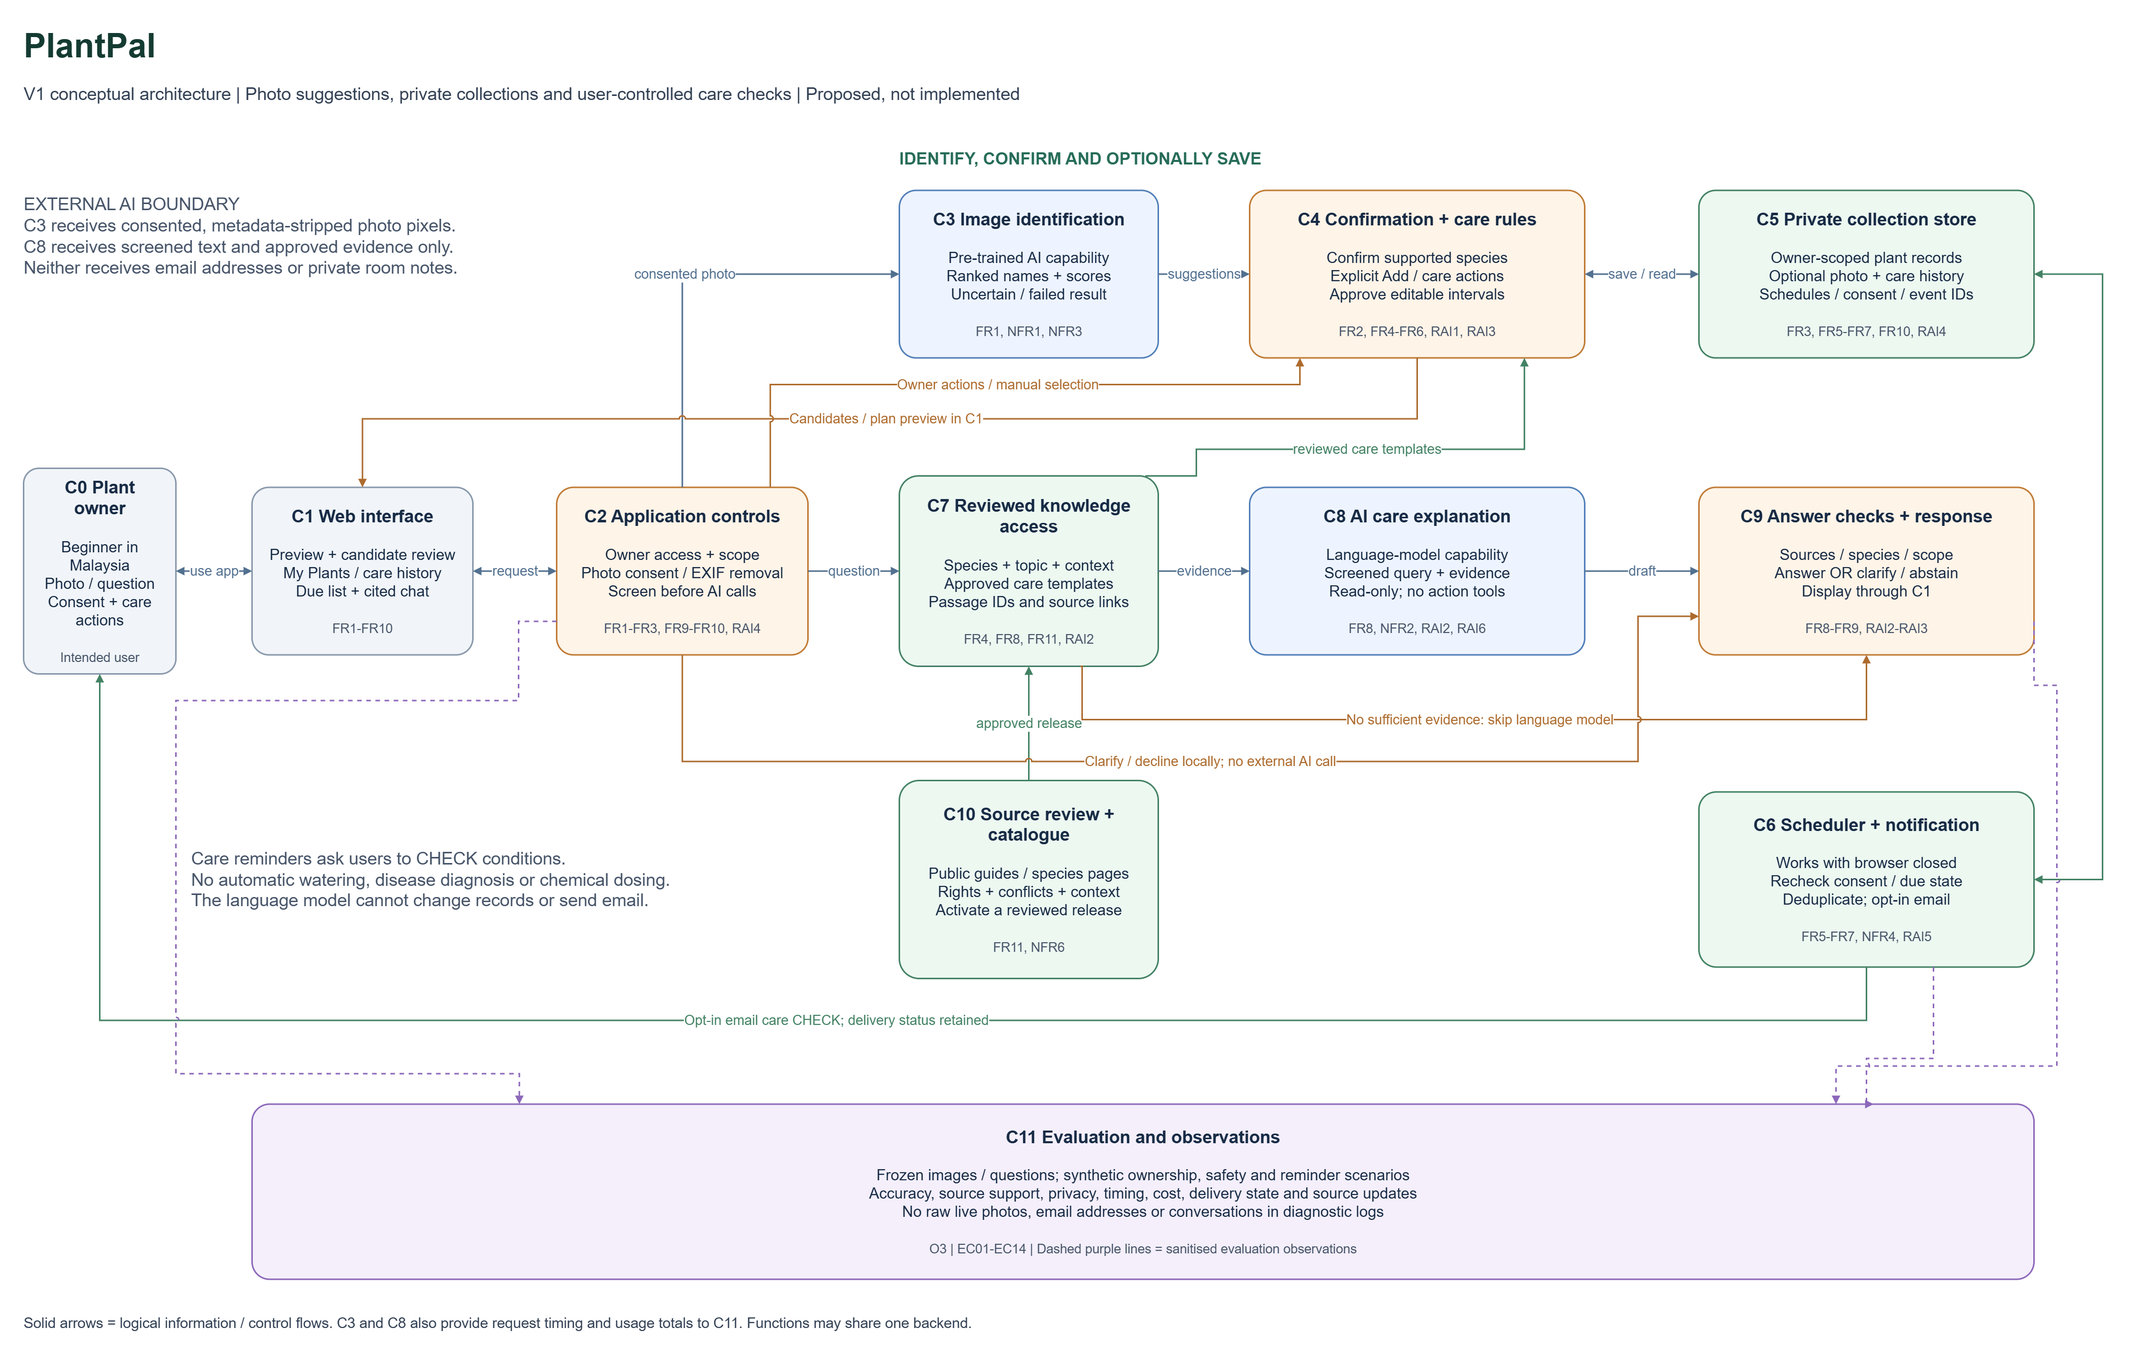
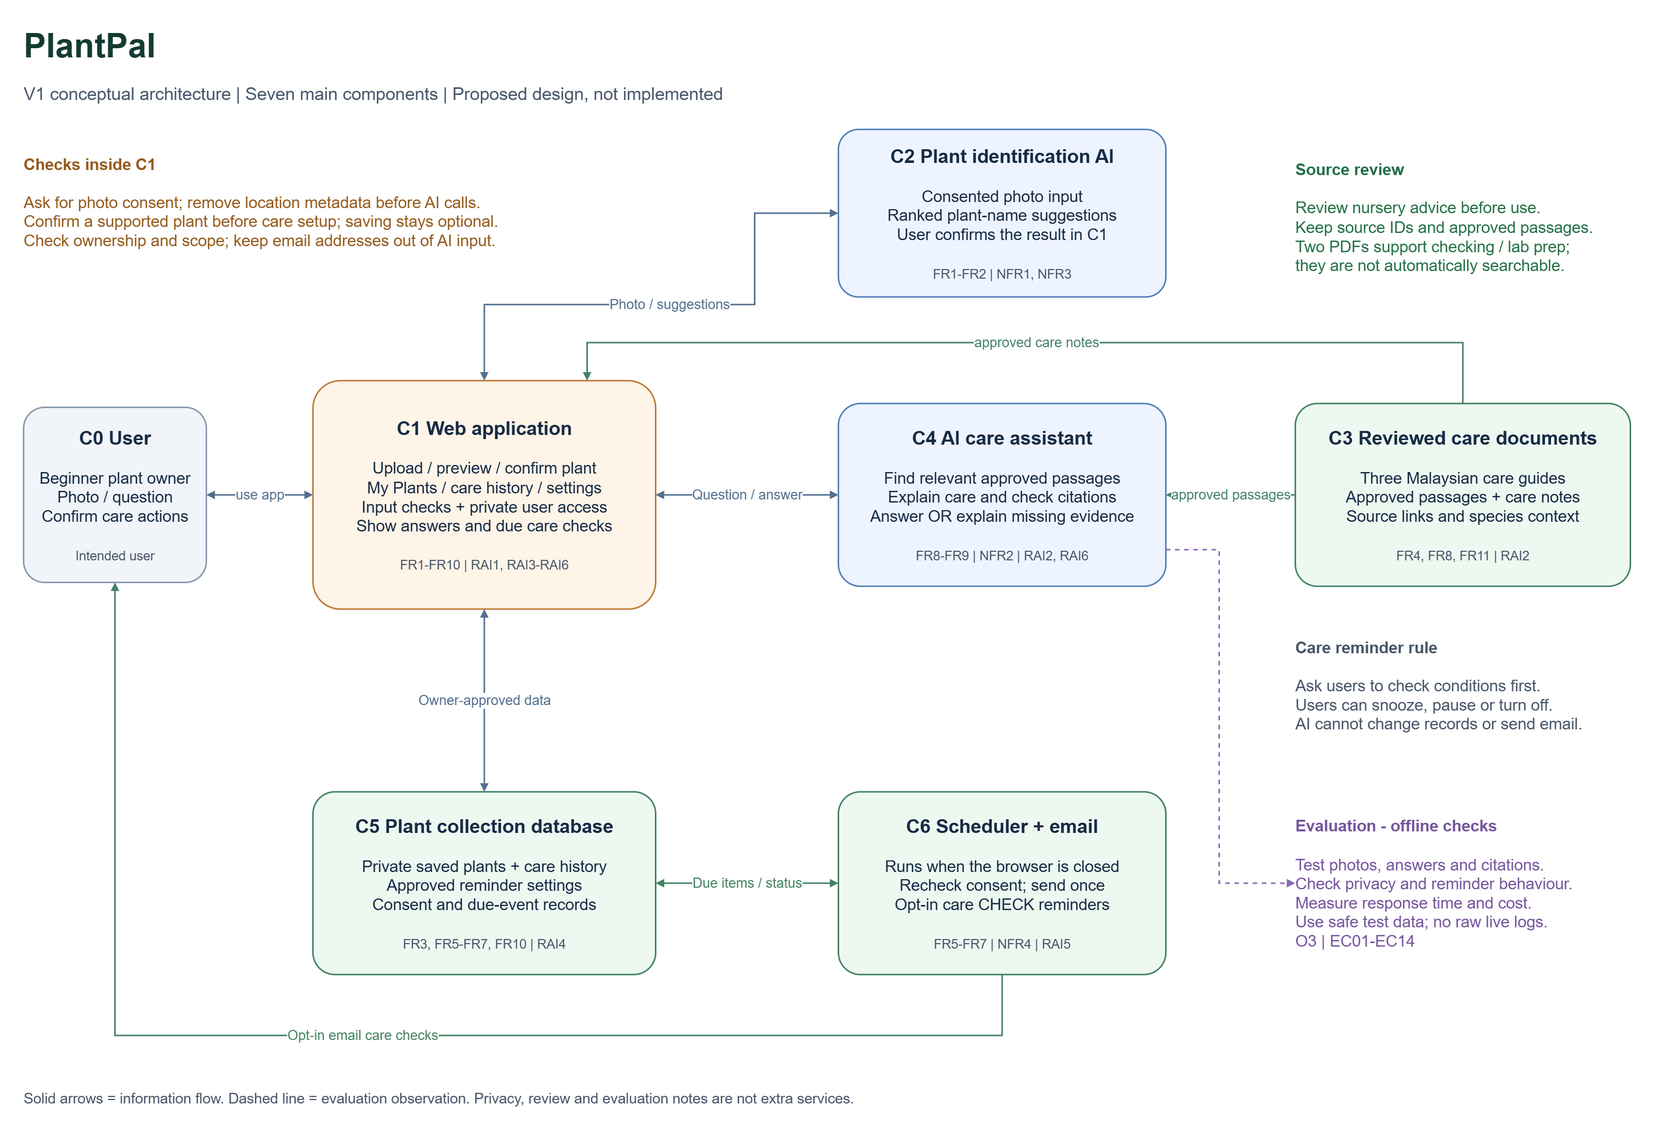
Simplify PlantPal V1 architecture to seven main components

diff --git a/docs/week2_architecture_decisions.md b/docs/week2_architecture_decisions.md
@@ -1,80 +1,85 @@
 # Week 2 V1 Architecture Decisions - PlantPal
 
-Version: 1.0 | Updated: 28 October 2026 | Status: conceptual design, not an implemented application
+Version: 1.1 | Updated: 28 October 2026 | Status: conceptual design; application not implemented
 
 [Architecture PNG](week2_architecture_v1.png) | [Editable Draw.io source](week2_architecture_v1.drawio) | [Requirements](week2_requirements.md) | [Evaluation criteria](week2_evaluation_criteria.md)
 
-## Starting architecture and justified additions
+## Starting point
 
-The starting interaction is User -> Application -> AI capability -> Response. It does not by itself support tentative identity confirmation, private collections, reviewed evidence or notifications while the browser is closed. The components below are added for those requirements. Labels describe functions; no database, model, UI framework or deployment vendor is selected at V1.
+Start with User -> Web application -> AI capability -> Response. PlantPal also needs reviewed care information, saved plant records and reminders that work when the browser is closed. The V1 diagram therefore has seven main components. Privacy checks, source review and evaluation appear as notes beside the relevant components.
 
-| Component | Responsibility | Justifying requirements |
+The boxes show responsibilities. The web application includes the interface and backend rules; it can start as one application. Specific models, databases, frameworks and hosting services will be chosen later.
+
+## Seven main components
+
+| Component | What it does | Requirements supported |
 |---|---|---|
-| C0 User | Photograph/select a plant, confirm identity, choose save and opt into care checks. | Intended user, FR1-FR7 |
-| C1 Application interface | Camera/upload preview, candidates and confirmation, My Plants, history, due list and source-linked chat. | FR1-FR10 |
-| C2 Application controls | Authenticate owners for saved data; validate inputs, photo consent and metadata; check scope and route requests. | FR1-FR3, FR9, FR10, RAI1, RAI4 |
-| C3 Image identification capability | Receive a consented sanitised photo and return ranked candidate names/scores; expose failures. | FR1, NFR1, NFR3 |
-| C4 Confirmation and care-plan rules | Enforce supported identity and explicit Add; validate approved editable intervals, consent and care event transitions. | FR2, FR4-FR6, RAI1, RAI3 |
-| C5 Private collection store | Owner-scoped plant/profile/history/optional-photo data, email destination reference, schedules and pending event state. | FR3, FR5-FR7, FR10, RAI4 |
-| C6 Scheduler and notification gateway | Run without an open browser; recheck latest consent/due state, deduplicate, dispatch and record delivery status. | FR5-FR7, NFR4, RAI5 |
-| C7 Reviewed knowledge access | Serve relevant passages and reviewed care templates with species/context/provenance metadata. | FR4, FR8, FR11, NFR2, NFR6, RAI2 |
-| C8 Language-model explanation | Use a screened question, structured care context and approved evidence to draft a cited explanation; no write/send tools. | FR8, RAI2, RAI6 |
-| C9 Answer validation and response | Check source IDs, species/context, scope and format; return answer, clarification or abstention through C1. | FR8, FR9, RAI2, RAI3 |
-| C10 Source review and catalogue | Maintainer reviews public documents, permissions, conflicts and source release; activates passages/templates. | FR11, NFR6 |
-| C11 Evaluation and operational observations | Run frozen cases; observe sanitised case outcomes, duration, usage and dispatch status. | O3, NFR1-NFR6, RAI1-RAI6 |
+| C0 User | Takes a photo or asks a question, confirms the plant name, chooses whether to save it and approves reminders. | Intended user; FR1-FR7 |
+| C1 Web application | Shows upload, confirmation, My Plants, history, reminder settings, due tasks and chat. Checks consent, photo metadata, ownership and scope before requests. Saves care actions only after the owner's choice. | FR1-FR10, RAI1, RAI3-RAI6 |
+| C2 Plant identification AI | Receives a consented photo with metadata removed and returns possible plant names and scores, or a clear failure state. | FR1, FR2, NFR1, NFR3, RAI1 |
+| C3 Reviewed care documents | Provides approved passages and care notes with species details and source links. Source review and updates are maintainer tasks attached to this component. | FR4, FR8, FR11, NFR2, NFR6, RAI2 |
+| C4 AI care assistant | Finds relevant approved passages, explains them, checks citations and returns an answer or an explanation of missing information through C1. It cannot change records or send email. | FR8, FR9, NFR2, NFR3, RAI2, RAI3, RAI6 |
+| C5 Plant collection database | Stores private plant records, optional saved photos, care history, approved reminder settings, consent and due-event status. C1 checks ownership for user access. | FR3, FR5-FR7, FR10, RAI4 |
+| C6 Scheduler and email notifications | Runs independently of the open browser. Reads due events, checks current consent and record status, prevents duplicates and sends opted-in care-check emails. | FR5-FR7, NFR4, RAI5 |
 
-### Major information flows
+## How information moves
 
-1. **Identification:** C0 -> C1 -> C2 -> C3 -> C4 -> C1. C2 validates type/size, previews consent and removes metadata before any remote identification call. C4 presents candidates for explicit confirmation; failure/unsupported results use manual selection or abstention.
-2. **Collection and care setup:** C1 -> C2 -> C4 <-> C5. C4 reads reviewed templates from C7, but saves only on explicit Add and approved scheduling choices. Identify-only photos expire even if the user never saves.
-3. **Care reminders:** C5 <-> C6 -> opted-in user. C6 reads the latest record immediately before dispatch and uses a stable due-event ID to prevent duplicate sending. An app due list reads the same state through C2/C4. Browser timers alone are insufficient for closed-app delivery.
-4. **Care Q&A:** C1 -> C2 -> C7 -> C8 -> C9 -> C1. Only a screened question and permitted structured context go to retrieval/AI services. No sufficient evidence follows C7 -> C9, bypassing generation. Missing context or prohibited input follows C2 -> C9 directly.
-5. **Source review:** Public documents -> C10 -> C7. C10 activates a reviewed release; it does not ingest arbitrary live pages from the user's question.
-6. **Evaluation:** C2, C3, C6 and C9 supply sanitised observations to C11. Test photos and synthetic cases live in an access-controlled evaluation workspace; no raw live images, messages or email addresses enter monitoring logs.
+1. **Identify:** C0 -> C1 -> C2 -> C1. The user previews the photo and agrees to identification. C1 checks the image and removes metadata before sending it. C1 shows the returned suggestions and requires confirmation of a supported plant. Failure or uncertainty allows manual selection.
+2. **Save and track:** C1 <-> C5. The user separately chooses Add to My Plants. C1 checks ownership and validates the care settings before saving. Watered, still damp, skipped and fertilised events follow the transitions in the requirements.
+3. **Care guidance:** C3 -> C1 supplies approved care notes. The user approves editable check intervals; the app does not infer moisture or generate a chemical dose from a photo.
+4. **Ask a question:** C0 -> C1 -> C4 -> C1 -> C0, with C3 -> C4 supplying approved evidence. C1 screens input before any external AI call. If the approved passages do not support an answer, C4 returns an explanation of the gap without generating unsupported advice. C1 can ask for missing details or decline a request before calling C4.
+5. **Remind:** C5 <-> C6 -> C0. Before sending, C6 checks the latest consent, due state, paused/deleted status and unique event ID. The app's due list reads the same records through C1. Delivery failure does not record a care action as completed.
 
-The diagram shows logical responsibilities, not a microservices deployment. C2/C4/C7/C9 can initially be modules in one backend. C5 is the only private persistent-data boundary; C3/C8 are external AI boundaries. The notification transport receives only the opted-in destination and minimal reminder text. It is never callable by C8.
+## Controls and evaluation notes
 
-## Care sources in this design
+- **Privacy and confirmation inside C1:** Obtain photo consent, remove metadata, confirm a supported species and keep saving optional. Only owners can access their saved records. Email addresses and private room notes stay out of AI input. Apply the deletion and retention targets in RAI4.
+- **Source review beside C3:** A maintainer checks rights, species, growing conditions and conflicting advice before approving a source release. Only approved passages become available to C4. This is a review task, not a separate service.
+- **Care checks beside C6:** Reminders ask users to check conditions first. Fertilising reminders start off. Users can snooze, pause or disable reminders; changes take effect before dispatch. The model has no write or email tools.
+- **Offline evaluation note:** Test identification, answers, citations, ownership, privacy, reminders, source updates, speed and cost using EC01-EC14. Collect safe test outcomes and aggregate timing/usage data from the relevant components. Keep raw live images, email addresses and conversations out of diagnostic logs.
 
-C10 reviews the three main Malaysian care guides: [money plant](https://wengthye.com/careguide/money-plant), [snake plant](https://wengthye.com/careguide/snake-plant) and [spider plant](https://wengthye.com/careguide/spider-plant). C7 makes only their approved passages available to C8. The [main source register](../data/sources.csv) records these three documents; the [supporting-reference register](../data/supporting_references.csv) records the two university PDFs used for independent checking and lab preparation.
+Grouping these responsibilities keeps the diagram small while retaining the controls in the requirements. It does not require a separate deployment for each box.
 
-Changing the source list does not require another component. If the approved guides cannot answer a question, including a repotting question, the existing C7 -> C9 route returns an explanation of the information gap. The language model does not fill the gap with unsupported advice.
+## Care sources
+
+The three main care guides are [money plant](https://wengthye.com/careguide/money-plant), [snake plant](https://wengthye.com/careguide/snake-plant) and [spider plant](https://wengthye.com/careguide/spider-plant), published by 54 Weng Thye Nursery in Selangor. They are recorded in [the main source register](../data/sources.csv).
+
+The two university PDFs in [the supporting-reference register](../data/supporting_references.csv) remain references for independent checking and lab preparation. They are not automatically part of C3's searchable collection. If the approved guides cannot answer a question, including a repotting question, C4 explains the gap. The AI and keyword-search baseline use the same approved source release.
 
 ## Architecture decisions and trade-offs
 
 | Decision | Requirement / constraint | Alternatives considered | Selected option | Trade-off accepted |
 |---|---|---|---|---|
-| ADR1 - Provisional identification with explicit confirmation | FR1, FR2, RAI1; limited labelled data and semester time | Manual selector only; train a classifier; external pre-trained identification capability | Existing identification capability plus manual fallback and supported-species confirmation | Avoids collecting a training dataset, but adds provider dependency, latency, consent and error-handling work. User confirmation can still be wrong. |
-| ADR2 - Reviewed evidence and bounded care coverage | FR8, FR11, NFR2, RAI2 | Base-model answers; static care cards only; unrestricted web search; reviewed knowledge access | Three-species reviewed corpus with retrieval and cited explanations | More curation and possible abstention, in exchange for traceable evidence and manageable tests. This does not guarantee truth automatically. |
-| ADR3 - Deterministic checks and server-side reminders | FR5-FR7, NFR4, RAI3, RAI5 | AI-generated action dates; browser-only timers; user-approved rules plus persistent scheduler | Reviewed wording, user-approved editable intervals, persisted due events, one opt-in email channel | Requires a worker/transport and idempotency/state handling, but works when the app is closed. Exact biological watering need remains unknown; email arrival cannot be guaranteed. |
-| ADR4 - Separate read-only AI from private actions | FR3, FR10, RAI4, RAI6 | Give the assistant write/send tools; public photo storage; owner-scoped records and explicit UI actions | Owner-checked private storage, short-lived uploads and explicit application-controlled changes | Adds access/deletion tests and confirmation steps, but limits prompt-injection effects and accidental exposure. |
+| ADR1 - Use an existing identification service | FR1, FR2, RAI1; individual semester project | Manual selection only; train a new model; use an existing identification service | Existing service with user confirmation and manual fallback | Less model-training work, but provider access, errors, costs and privacy need checking. Confirmation can still be wrong. |
+| ADR2 - Use reviewed care documents | FR8, FR11, NFR2, RAI2 | Model answers alone; static care cards; reviewed documents with AI explanation | Three reviewed Malaysian guides with source-linked answers | Requires review and may leave some questions unanswered, but users can check the supporting evidence. |
+| ADR3 - Use fixed application rules for reminders | FR5-FR7, NFR4, RAI3, RAI5 | AI-chosen action dates; browser-only timers; stored user-approved settings with a scheduler | User-approved editable intervals and a scheduler with opt-in email | Adds scheduling and delivery checks, but supports reminders with the browser closed. A due date is not proof that watering is needed. |
+| ADR4 - Keep AI separate from private actions | FR3, FR10, RAI4, RAI6 | Give AI tools to edit records/send messages; require explicit app actions | C1 handles owner-approved changes; C4 only explains care | Requires explicit user steps and ownership checks, but limits accidental changes and prompt-injection effects. |
 
-Pl@ntNet is a researched identification candidate, not a technology commitment. Its [API documentation](https://docs.plantnet.org/en/reference/api-plantnet/) and [terms](https://my.plantnet.org/terms_of_use) must be checked for supported names, attribution, access and retention before integration. API accounts, keys and notification-provider subscriptions have not been created for this planning submission.
+[Pl@ntNet](https://docs.plantnet.org/en/reference/api-plantnet/) remains a possible identification provider. Its [terms](https://my.plantnet.org/terms_of_use), attribution, costs and privacy practices must be checked before integration. No service account or paid plan is created by this design document.
 
 ## Initial requirements traceability matrix
 
 | Objective | Requirement | Evaluation criterion | Architecture element | Later evidence |
 |---|---|---|---|---|
-| O1 | FR1, FR2, NFR1, RAI1 | EC01, EC02 | C2, C3, C4 | Labelled-image manifest, provider results and confirmation-gate tests. |
-| O2 | FR3, FR6, FR10 | EC03, EC09 | C1, C2, C4, C5 | Synthetic two-owner collection flows and denied cross-owner requests. |
-| O2 | FR5-FR7, NFR4, RAI5 | EC04, EC10 | C4, C5, C6 | Clock-controlled due events, retry logs and opt-out/deletion scenarios. |
-| O1, O2 | FR4, FR8, NFR2, RAI2 | EC05, EC06, EC07 | C7, C8, C9, C10 | Frozen passage references, answer rubric and claim-support annotations. |
-| O2 | FR9, RAI3 | EC08 | C2, C4, C9 | Boundary cases and reviewed watering/fertilising reminder templates. |
-| O2 | FR1, FR10, RAI4 | EC09 | C2, C5 | Consent, EXIF removal, minimised payload and retention/deletion checks. |
-| O3 | NFR3, NFR5 | EC11, EC12 | C2, C3, C8, C11 | Timed request runs, failures, token/request counts and dated price calculation. |
-| O1, O3 | FR11, NFR6 | EC13 | C7, C10, C11 | Versioned source update and eleven regression results. |
-| O2 | RAI6 | EC14 | C2, C8, C9 | Injection cases, read-only permission inspection and absence of unauthorised actions. |
+| O1 | FR1, FR2, NFR1, RAI1 | EC01, EC02 | C1, C2 | Labelled-photo results and confirmation/fallback tests. |
+| O2 | FR3, FR6, FR10 | EC03, EC09 | C1, C5 | Two-owner collection tests, care history and deletion results. |
+| O2 | FR5-FR7, NFR4, RAI5 | EC04, EC10 | C1, C5, C6 | Due-event timing, duplicate prevention, consent and opt-out tests. |
+| O1, O2 | FR4, FR8, NFR2, RAI2 | EC05-EC07 | C1, C3, C4 | Reference questions, answer scores and claim-support checks. |
+| O2 | FR9, RAI3 | EC08 | C1, C4, C6 | Scope tests and reviewed care-check message templates. |
+| O2 | FR1, FR10, RAI4 | EC09 | C1, C5 | Photo-consent, metadata, ownership and retention checks. |
+| O3 | NFR3, NFR5 | EC11, EC12 | C1, C2, C4; offline evaluation note | Timed request runs, usage totals and cost calculations. |
+| O1, O3 | FR11, NFR6 | EC13 | C3; source-review and evaluation notes | Source release record and eleven update/regression results. |
+| O2 | RAI6 | EC14 | C1, C4 | Injection tests and confirmation that AI has no write/send tools. |
 
-All later-evidence entries are plans. No passed application tests, user research, integrations or deployment results are claimed.
+All evidence entries describe future tests. No application results or user-study findings are claimed.
 
 ## Architecture review
 
-- Every major component is justified in the component table. The scheduler is needed for closed-app reminders; the private store is needed for personal collections and history.
-- Confirmation, metadata removal, ownership checks, consent rechecks, no-evidence bypasses and an evaluation point are represented.
-- The initial deployment can combine application functions in one backend; queues, model training, sensors, weather services and multiple notification channels are not required at V1.
-- A simpler manual-selector/care-card prototype would remove one AI path but would not satisfy the requested photo-identification workflow. Keep it as a fallback and baseline, not a replacement for FR1.
-- The model cannot send notifications or alter schedules. Only owner-authorised application operations can do that.
+- Seven main components cover the requested photo, collection, chat and reminder features.
+- Privacy checks, source review and offline evaluation are visible as annotations and explained above.
+- The web application can contain the input checks, confirmation steps and care rules in one backend.
+- The scheduler is required for closed-browser email reminders. The database is required for saved plants, history and reminder state.
+- Specific technologies, sensors, model training, weather services and extra notification channels are outside this V1 design.
 
 ## Reflection
 
-ADR3 involves the most important trade-off. FR7 requires reminders even when the browser is closed, but RAI3 prevents treating a scheduled date as proof that a plant needs water. I therefore accept the extra scheduler and consent-state work while keeping the message as a check and letting the owner snooze or disable it. This creates a clearer boundary between AI explanation and routine application actions, at the cost of more integration testing.
+ADR3 has the most important trade-off. Users need reminders even when the browser is closed, which requires a scheduler and delivery checks. However, a reminder date cannot show whether a plant needs water. I therefore keep the message as a care check and let users postpone or stop it. This follows FR7, RAI3 and RAI5 while keeping the AI focused on explaining care information.
